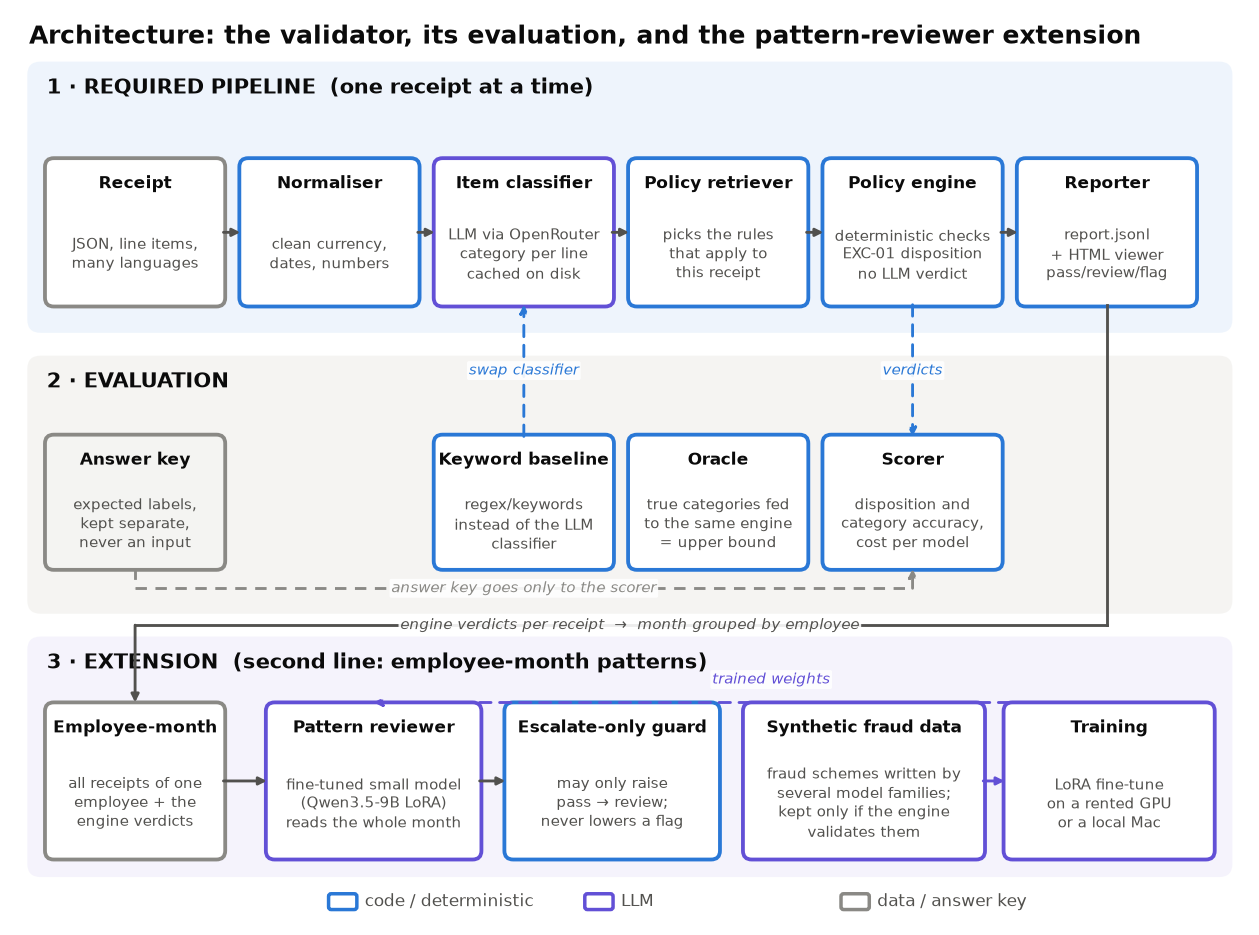
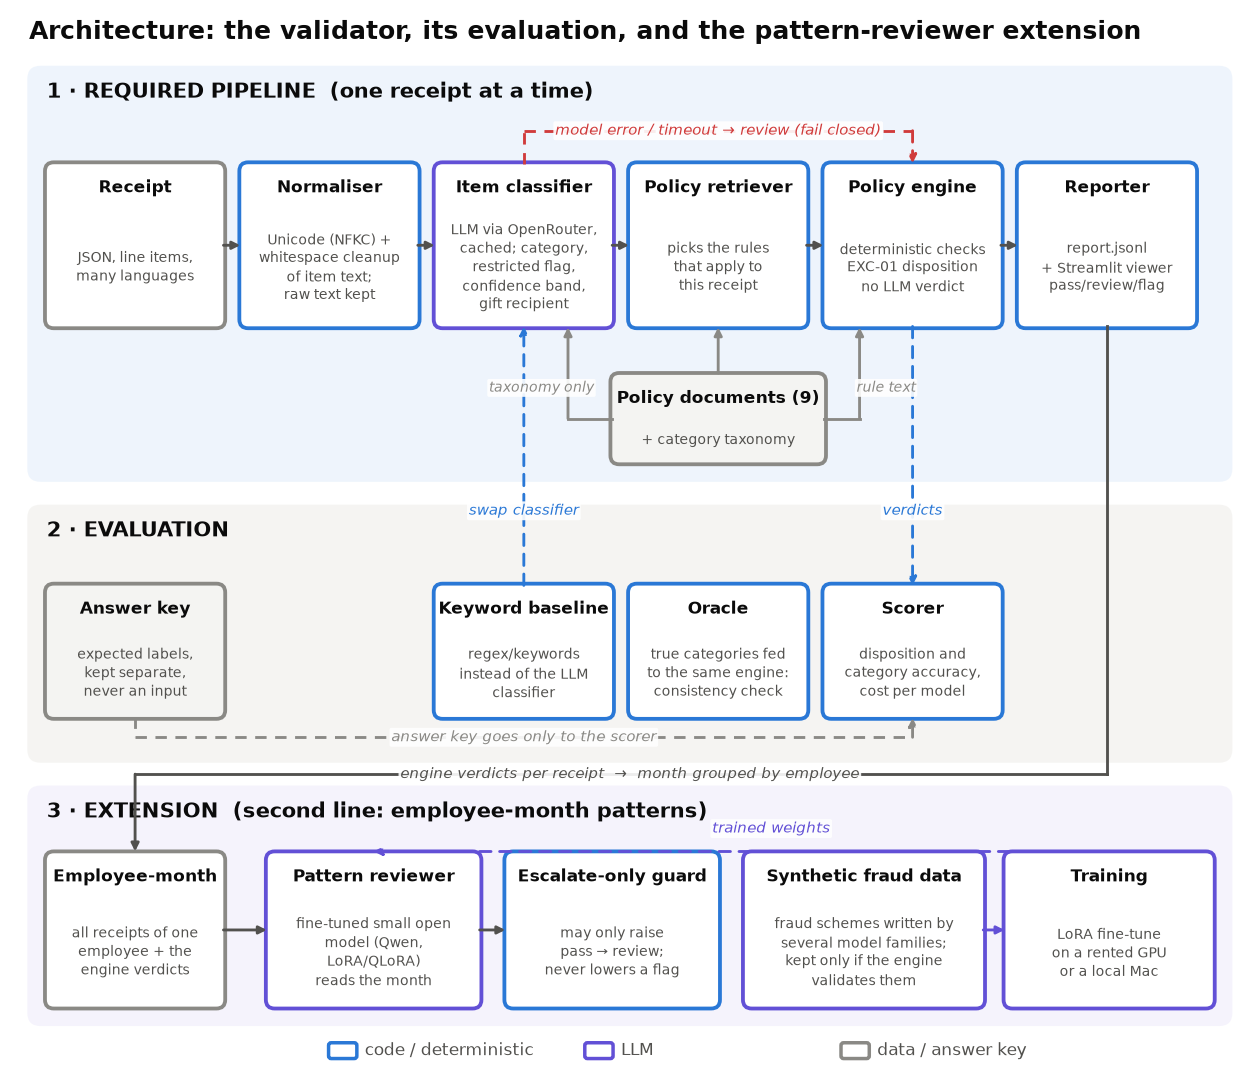
Correct the architecture diagram; hold the results chart until the final fine-tuning runs

Changed region(s): [[0.031, 0.0, 0.9603, 0.9925]]

diff --git a/docs/img/make_architecture.py b/docs/img/make_architecture.py
@@ -1,0 +1,82 @@
+import json, math
+import matplotlib; matplotlib.use("Agg")
+import matplotlib.pyplot as plt, matplotlib.patches as mp
+OUT="/Users/geboou/Desktop/oversight/validator/docs/img/"  # run: uv run --with matplotlib python make_architecture.py
+BL="#2a78d6"; PU="#6250d6"; GR="#8a8985"; INK="#0b0b0b"; INK2="#52514e"; GOOD="#0ca30c"; CRIT="#d03b3b"; WARN="#fab219"
+plt.rcParams["font.family"]="DejaVu Sans"
+
+# ---------- Figure 1
+fig,ax=plt.subplots(figsize=(14,12.1)); ax.axis("off"); ax.set_xlim(0,14); ax.set_ylim(0,12.1)
+def region(y0,y1,c,label):
+    ax.add_patch(mp.FancyBboxPatch((.2,y0),13.6,y1-y0,boxstyle="round,pad=0.02,rounding_size=0.15",fc=c,ec="none",alpha=.6,zorder=0))
+    ax.text(.4,y1-.28,label,fontsize=13,fontweight="bold",color=INK,va="center")
+def box(x,y,w,h,t,s,ec,fc="white",lw=2.4):
+    ax.add_patch(mp.FancyBboxPatch((x,y),w,h,boxstyle="round,pad=0.02,rounding_size=0.1",fc=fc,ec=ec,lw=lw,zorder=2))
+    ax.text(x+w/2,y+h-.27,t,ha="center",va="center",fontsize=11,fontweight="bold",color=INK,zorder=3)
+    ax.text(x+w/2,y+(h-.5)/2,s,ha="center",va="center",fontsize=9,color=INK2,linespacing=1.3,zorder=3)
+def arr(p,q,c=INK2,ls="-",lw=1.8,rad=0):
+    ax.annotate("",xy=q,xytext=p,arrowprops=dict(arrowstyle="-|>",color=c,lw=lw,ls=ls,connectionstyle=f"arc3,rad={rad}",shrinkA=0,shrinkB=0),zorder=4)
+def lab(x,y,t,c=INK2,ha="center",fs=9.6):
+    ax.text(x,y,t,ha=ha,va="center",fontsize=fs,color=c,fontstyle="italic",zorder=5,bbox=dict(boxstyle="round,pad=0.12",fc="white",ec="none",alpha=.9))
+ax.text(.2,11.85,"Architecture: the validator, its evaluation, and the pattern-reviewer extension",fontsize=15.5,fontweight="bold",color=INK,va="center")
+# row 1 required pipeline
+region(6.75,11.45,"#e3eefb","1 · REQUIRED PIPELINE  (one receipt at a time)")
+W=2.0;H=1.85;g=.2;y=8.5
+xs=[.4+k*(W+g) for k in range(6)]
+items=[("Receipt","JSON, line items,\nmany languages",GR),("Normaliser","Unicode (NFKC) +\nwhitespace cleanup\nof item text;\nraw text kept",BL),("Item classifier","LLM via OpenRouter,\ncached; category,\nrestricted flag,\nconfidence band,\ngift recipient",PU),("Policy retriever","picks the rules\nthat apply to\nthis receipt",BL),("Policy engine","deterministic checks\nEXC-01 disposition\nno LLM verdict",BL),("Reporter","report.jsonl\n+ Streamlit viewer\npass/review/flag",BL)]
+for x,(t,s,c) in zip(xs,items): box(x,y,W,H,t,s,c)
+for k in range(5): arr((xs[k]+W,y+H/2),(xs[k+1]-.01,y+H/2))
+# data box + fail-closed
+box(6.8,6.95,2.4,1.0,"Policy documents (9)","+ category taxonomy",GR,fc="#f4f4f2",lw=2.4)
+arr((8.0,7.97),(8.0,y-.01),c=GR)
+ax.plot([6.8,6.3],[7.45,7.45],color=GR,lw=1.8,zorder=4); arr((6.3,7.45),(6.3,y-.01),c=GR)
+lab(6.0,7.8,"taxonomy only",c=GR,fs=9)
+ax.plot([9.2,9.6],[7.45,7.45],color=GR,lw=1.8,zorder=4); arr((9.6,7.45),(9.6,y-.01),c=GR)
+lab(9.9,7.8,"rule text",c=GR,fs=9)
+yf=y+H+.38
+ax.plot([xs[2]+W/2,xs[2]+W/2],[y+H,yf],color=CRIT,lw=1.8,ls=(0,(4,3)),zorder=4)
+ax.plot([xs[2]+W/2,xs[4]+W/2],[yf,yf],color=CRIT,lw=1.8,ls=(0,(4,3)),zorder=4)
+arr((xs[4]+W/2,yf),(xs[4]+W/2,y+H+.01),c=CRIT,ls=(0,(4,3)))
+lab((xs[2]+xs[4])/2+W/2,yf,"model error / timeout \u2192 review (fail closed)",c=CRIT,fs=9.6)
+# row 2 evaluation
+region(3.55,6.45,"#efeeea","2 · EVALUATION")
+y2=4.05;H2=1.5
+box(xs[0],y2,W,H2,"Answer key","expected labels,\nkept separate,\nnever an input",GR,fc="#f4f4f2")
+box(xs[2],y2,W,H2,"Keyword baseline","regex/keywords\ninstead of the LLM\nclassifier",BL)
+box(xs[3],y2,W,H2,"Oracle","true categories fed\nto the same engine:\nconsistency check",BL)
+box(xs[4],y2,W,H2,"Scorer","disposition and\ncategory accuracy,\ncost per model",BL)
+ya=3.82
+ax.plot([xs[0]+W/2,xs[0]+W/2],[y2,ya],color=GR,lw=1.8,ls=(0,(4,3)),zorder=4)
+ax.plot([xs[0]+W/2,xs[4]+W/2],[ya,ya],color=GR,lw=1.8,ls=(0,(4,3)),zorder=4)
+arr((xs[4]+W/2,ya),(xs[4]+W/2,y2-.01),c=GR,ls=(0,(4,3)))
+lab(xs[2]+W/2,ya,"answer key goes only to the scorer",c=GR)
+arr((xs[2]+W/2,y2+H2),(xs[2]+W/2,y+.0),c=BL,ls=(0,(4,3)))
+arr((xs[4]+W/2,y),(xs[4]+W/2,y2+H2+.0),c=BL,ls=(0,(4,3)))
+lab(xs[4]+W/2+.0,6.4,"verdicts",c=BL)
+lab(xs[2]+W/2,6.4,"swap classifier",c=BL)
+# row 3 extension
+region(.55,3.25,"#efecfb","3 · EXTENSION  (second line: employee-month patterns)")
+y3=.75;H3=1.75
+box(xs[0],y3,W,H3,"Employee-month","all receipts of one\nemployee + the\nengine verdicts",GR)
+box(2.9,y3,2.4,H3,"Pattern reviewer","fine-tuned small open\nmodel (Qwen,\nLoRA/QLoRA)\nreads the month",PU)
+box(5.6,y3,2.4,H3,"Escalate-only guard","may only raise\npass → review;\nnever lowers a flag",BL)
+arr((xs[0]+W,y3+H3/2),(2.89,y3+H3/2)); arr((5.3,y3+H3/2),(5.59,y3+H3/2))
+box(8.3,y3,2.7,H3,"Synthetic fraud data","fraud schemes written by\nseveral model families;\nkept only if the engine\nvalidates them",PU)
+box(11.25,y3,2.35,H3,"Training","LoRA fine-tune\non a rented GPU\nor a local Mac",PU)
+arr((11.0,y3+H3/2),(11.24,y3+H3/2),c=PU)
+ax.annotate("",xy=(4.1,y3+H3+.02),xytext=(12.42,y3+H3+.02),arrowprops=dict(arrowstyle="-|>",color=PU,lw=1.8,ls=(0,(4,3)),connectionstyle="angle,angleA=90,angleB=0,rad=0",shrinkA=0,shrinkB=0),zorder=4)
+lab(8.6,2.78,"trained weights",c=PU)
+# engine verdicts: reporter -> employee-month (elbow)
+xr=xs[5]+W/2; yb=3.4
+ax.plot([xr,xr],[y,yb],color=INK2,lw=1.8,zorder=4)
+ax.plot([xr,xs[0]+W/2],[yb,yb],color=INK2,lw=1.8,zorder=4)
+arr((xs[0]+W/2,yb),(xs[0]+W/2,y3+H3+.02))
+lab(7.0,yb,"engine verdicts per receipt  →  month grouped by employee",fs=9.6)
+# legend
+lx=3.6
+for j,(l,c) in enumerate([("code / deterministic",BL),("LLM",PU),("data / answer key",GR)]):
+    ax.add_patch(mp.FancyBboxPatch((lx+j*2.9,.17),.3,.16,boxstyle="round,pad=0.01,rounding_size=0.03",fc="white",ec=c,lw=2.2,clip_on=False))
+    ax.text(lx+j*2.9+.4,.25,l,fontsize=10.5,va="center",color=INK2)
+fig.savefig(OUT+"architecture.png",dpi=114,bbox_inches="tight",facecolor="white")
+plt.close(fig)
+

diff --git a/README.md b/README.md
@@ -34,8 +34,6 @@ One module per policy document (`src/validator/rules/`), each rule citing its id
 | False positives (of 9 pass) / missed (of 16 flag) | 0 / 0 | 0 / 1 | 1 / 4 |
 | Macro F1 / restricted F1 | 0.965 / 1.000 | gold | 0.776 / 0.821 |
 
-![Results](docs/img/results.png)
-*Panel A is the separate four-model comparison run; the committed run of the same safeguard model got 64/65 lines (one run per model, so ±1 line is run-to-run variation).*
 
 28 receipts is tiny (a perfect score has a 95% lower bound of 87.7%). The engine was written with these receipts and answers in view, so B is a consistency check, not a generalisation estimate; only the classifier is measured blind, and the taxonomy's own examples sit in its prompt. On the 65 scored lines it makes one error (RCP-005-L2 'Occupancy tax' → `other`, correct `lodging`; the disposition is still right). On the held-out set (144 lines, independent of the dataset) it scores 124/144 exact (86.1%; 136/144 counting listed alternatives). Per-rule precision/recall, exact line citation (26/26) and the four timing receipts (4/4) are in `EVAL.md`.
 **Failure cases.** (1) RCP-022 under B: with perfect categories the engine passes it, because who received the items is stated only in the text; the classifier's recipient output fires GIFT-04, so a perfect category score would not have caught it. (2) Held-out: 20 of 144 lines differ from the annotator, e.g. "Cerveza Corona Cero" → `alcohol` (it is non-alcoholic beer); 13 of the 20 are rated `high` and only 1 `low`, so EXC-03 catches almost none (stage: classification).
